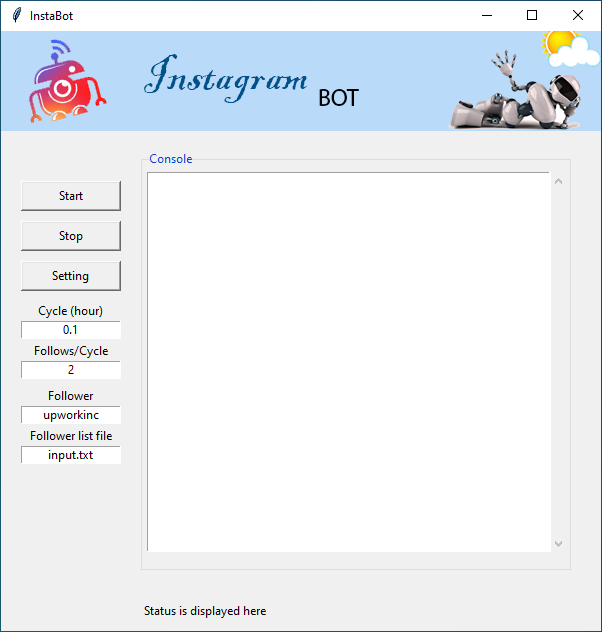
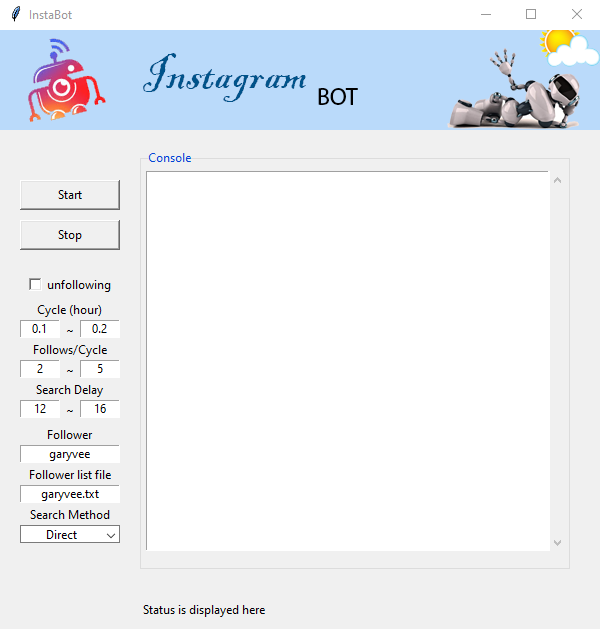
Starting fix for IOS and setting rectangl

diff --git a/main.py b/main.py
@@ -9,6 +9,7 @@ import logging
 from threading import Thread
 from logger import ConsoleUi
 import signal
+from configparser import ConfigParser
 
 class MainFrm(Frame):
     def __init__(self):
@@ -16,13 +17,17 @@ class MainFrm(Frame):
         tk.Frame.__init__(self)
         self.pack(fill=BOTH, expand=1)
         self.master.title("InstaBot")
-        self.master.geometry("600x600+10+20")
+        self.master.geometry("600x600+50+100")
 
         load = Image.open('banner.png')
         render = ImageTk.PhotoImage(load)
         imgBanner = Label(self, image=render)
         imgBanner.image = render
         imgBanner.place(x=0, y=0, w=600, h=100)
+        self.position = None
+        self.config_filename = 'config.ini'
+        self.config = ConfigParser()
+        self.config.read(self.config_filename)
 
         bt_w = 100
         bt_h =30
@@ -32,13 +37,21 @@ class MainFrm(Frame):
 
         self.btStart = Button(self, text = "Start", command = self.btStart_clicked)
         self.btStop = Button(self, text = "Stop", command = self.btStop_clicked)
-        # self.btSetting = Button(self, text = "Setting", command = self.btStop_clicked)
+        self.btSetting = Button(self, text = "Region", command = self.btSetting_clicked)
+
         self.doUnfollowing = IntVar()
         self.ckUnfollowing = Checkbutton(self, text="unfollowing", variable=self.doUnfollowing)
+
         self.lbCycle = Label(self, text="Cycle (hour)")
-        self.enCycle = Entry(self, justify='center')
+        self.enCycleSt = Entry(self, justify='center')
+        self.lbCycleMd = Label(self, text="~")
+        self.enCycleEd = Entry(self, justify='center')
+
         self.lbFollows = Label(self, text="Follows/Cycle")
-        self.enFollows = Entry(self, justify='center')
+        self.enFollowsSt = Entry(self, justify='center')
+        self.lbFollowsMd = Label(self, text="~")
+        self.enFollowsEd = Entry(self, justify='center')
+
         self.lbSearchDelay = Label(self, text="Search Delay")
         self.enSearchDelaySt = Entry(self, justify='center')
         self.lbSearchDelayMd = Label(self, text="~")
@@ -57,14 +70,21 @@ class MainFrm(Frame):
         self.lbStatus = Label(self, text="Status is displayed here", anchor=W)
 
         # Control Buttons
-        self.btStart.place(x=20, y = 150, w=bt_w, h=bt_h)
-        self.btStop.place(x=20, y = 190, w=bt_w, h=bt_h)
-        # self.btSetting.place(x=20, y = 230, w=bt_w, h=bt_h)
+        self.btStart.place(x=20, y = 120, w=bt_w, h=bt_h)
+        self.btStop.place(x=20, y = 160, w=bt_w, h=bt_h)
+        self.btSetting.place(x=20, y = 200, w=bt_w, h=bt_h)
         self.ckUnfollowing.place(x=20, y=240, w=bt_w, h=bt_h)
+
         self.lbCycle.place(x=20, y = 270, w=lb_w, h=lb_h)
-        self.enCycle.place(x=20, y = 290, w=lb_w, h=lb_h)
+        self.enCycleSt.place(x=20, y = 290, w=40, h=lb_h)
+        self.lbCycleMd.place(x=65, y = 290, w=10, h=lb_h)
+        self.enCycleEd.place(x=80, y = 290, w=40, h=lb_h)
+
         self.lbFollows.place(x=20, y = 310, w=lb_w, h=lb_h)
-        self.enFollows.place(x=20, y = 330, w=lb_w, h=lb_h)
+        self.enFollowsSt.place(x=20, y = 330, w=40, h=lb_h)
+        self.lbFollowsMd.place(x=65, y = 330, w=10, h=lb_h)
+        self.enFollowsEd.place(x=80, y = 330, w=40, h=lb_h)
+
         self.lbSearchDelay.place(x=20, y = 350, w=lb_w, h=lb_h)
         self.enSearchDelaySt.place(x=20, y = 370, w=40, h=lb_h)
         self.lbSearchDelayMd.place(x=65, y = 370, w=10, h=lb_h)
@@ -78,8 +98,10 @@ class MainFrm(Frame):
         self.lbSearchMethod.place(x=20, y = 475, w=lb_w, h=lb_h)
         self.cbSearchMethod.place(x=20, y = 495, w=lb_w, h=lb_h)
 
-        self.enCycle.insert(END, '0.1')
-        self.enFollows.insert(END, '2')
+        self.enCycleSt.insert(END, '0.1')
+        self.enCycleEd.insert(END, '0.2')
+        self.enFollowsSt.insert(END, '2')
+        self.enFollowsEd.insert(END, '5')
         self.enSearchDelaySt.insert(END, '12')
         self.enSearchDelayEd.insert(END, '16')
         self.enFollower.insert(END, 'garyvee')
@@ -107,8 +129,8 @@ class MainFrm(Frame):
         MsgBox = tk.messagebox.askquestion('Confirm Page Status', 'Did you check if it is on main page now',
                                            icon='warning')
         if MsgBox == 'yes':
-            self.btStart.config(state='disabled')
             self.walkerThread = WalkerThread(self.logger, self)
+            self.btStart.config(state='disabled')
             self.walkerThread.start()
         else:
             tk.messagebox.showinfo('Confirm Search Page Status', 'Also please check if previous search item was closed')
@@ -119,6 +141,40 @@ class MainFrm(Frame):
         # self.walkerThread.join()
         # self.btStart.config(state = 'normal')
         # print(self.walkerThread.is_alive())
+    def btSetting_clicked(self):
+        tk.messagebox.showinfo('Select Instagram Range', 'Please move and resize to fit instagram app window')
+
+        x1 = int(self.config.get('main', 'win_x1'))
+        y1 = int(self.config.get('main', 'win_y1'))
+        x2 = int(self.config.get('main', 'win_x2'))
+        y2 = int(self.config.get('main', 'win_y2'))
+
+        self.regionWin = Toplevel(self)
+        self.regionWin.configure(background='#ff0000')
+        self.regionWin.geometry(str(x2-x1)+"x" + str(y2-y1) + "+" + str(x1) + "+" + str(y1))
+        self.regionWin.attributes('-alpha', 0.5)
+        self.regionWin.wm_attributes('-topmost', True)
+
+        self.btOkay = Button(self.regionWin, text = "O K", command = self.btOk_clicked)
+        self.btOkay.place(x=50, y=50, w=80, h=30)
+
+    def btOk_clicked(self):
+        lv_x = self.regionWin.winfo_rootx()
+        lv_y = self.regionWin.winfo_rooty()
+        lv_w = self.regionWin.winfo_width()
+        lv_h = self.regionWin.winfo_height()
+        print(lv_x, lv_y, lv_w, lv_h)
+        self.regionWin.destroy()
+        self.position = [lv_x, lv_y, lv_x+lv_w, lv_y+lv_h]
+
+        self.config.set('main', 'win_x1', str(self.position[0]))
+        self.config.set('main', 'win_y1', str(self.position[1]))
+        self.config.set('main', 'win_x2', str(self.position[2]))
+        self.config.set('main', 'win_y2', str(self.position[3]))
+        with open(self.config_filename, 'w') as f:
+            self.config.write(f)
+
+        return self.position
 
     def setStatus(self, value):
         self.lbStatus['text'] = value

diff --git a/controller.py b/controller.py
@@ -9,9 +9,11 @@ import pytesseract
 
 class Controller:
 
-    def __init__(self, config, setStatus):
+    def __init__(self, config, setStatus, parent):
         self.config = config
         self.setStatus = setStatus
+        self.parent = parent
+
         self.windows_list = []
         self.toplist = []
 
@@ -22,15 +24,35 @@ class Controller:
         win32gui.EnumWindows(enum_win, self.toplist)
         # Game handle
         game_hwnd = 0
-        for (hwnd, win_text) in self.windows_list:
-            if "bluestacks" in win_text.lower():
-                game_hwnd = hwnd
+        try:
+            for (hwnd, win_text) in self.windows_list:
+                if "bluestacks" in win_text.lower():
+                    game_hwnd = hwnd
 
-        self.position = win32gui.GetWindowRect(game_hwnd)
-        print(self.position)
+            self.position = win32gui.GetWindowRect(game_hwnd)
+            self.padding_x = float(self.config.get('points', 'padding_x'))
+            self.padding_y = float(self.config.get('points', 'padding_y'))
+            self.isBlueStack = True
+            print(self.position)
+        except Exception as e:
+            self.isBlueStack = False
+            print('There is no blue stack window!!!')
 
-        self.padding_x = float(self.config.get('points', 'padding_x'))
-        self.padding_y = float(self.config.get('points', 'padding_y'))
+            x1 = int(self.config.get('main', 'win_x1'))
+            y1 = int(self.config.get('main', 'win_y1'))
+            x2 = int(self.config.get('main', 'win_x2'))
+            y2 = int(self.config.get('main', 'win_y2'))
+            self.position = [x1, y1, x2, y2]
+            self.padding_x = self.padding_y = 0
+            print('Read Window Region From Setting', self.position)
+
+        self.x = self.position[0]
+        self.y = self.position[1]
+        self.w = self.position[2] - self.position[0] - self.padding_x
+        self.h = self.position[3] - self.position[1] - self.padding_y
+
+
+
         self.mouse_delay = float(self.config.get('main', 'mouse_delay'))
         self.keyinput_delay = float(self.config.get('main', 'keyinput_delay'))
         self.keyremove_delay = float(self.config.get('main', 'keyremove_delay'))
@@ -41,13 +63,8 @@ class Controller:
         else:
             self.face_book = False
 
-
         pytesseract.pytesseract.tesseract_cmd = self.config.get('main', 'tesseract_path')
 
-        self.x = self.position[0]
-        self.y = self.position[1]
-        self.w = self.position[2] - self.position[0] - self.padding_x
-        self.h = self.position[3] - self.position[1] - self.padding_y
 
     def get_name_pos(self, button_name):
         if not self.face_book:
@@ -89,6 +106,24 @@ class Controller:
             win32api.mouse_event(win32con.MOUSEEVENTF_LEFTUP,x,y,0,0)
         except Exception as e:
             print('Error with Set Cursor ', x, y, e)
+
+    def mouse_icon_double_click(self, name):
+        button_x = int(self.config.get('points', name + '_x'))
+        button_y = int(self.config.get('points', name + '_y'))
+        self.mouse_click(button_x, button_y);
+        time.sleep(0.1)
+        self.mouse_click(button_x, button_y);
+
+    def close_icon_click(self, name):
+        st_x = float(self.config.get('points', name+'_st_x'))
+        ed_x = float(self.config.get('points', name+'_ed_x'))
+        y = int(self.config.get('points', name + '_y')) + self.y
+
+        for dx in np.arange(st_x, ed_x, 0.005):
+            bx = int(self.x + self.w * dx)
+            self.mouse_click(bx, y)
+            time.sleep(0.6)
+
     def mouse_scroll_name(self, button_name):
         [bt_x, bt_y] = self.get_name_pos(button_name)
         for i in range(7):

diff --git a/walker.py b/walker.py
@@ -28,7 +28,9 @@ class WalkerThread(threading.Thread):
 
         while True:
             cnt = cnt + 1
-            cycle = float(self.parent.enCycle.get())
+            self.cycleSt = float(self.parent.enCycleSt.get())
+            self.cycleEd = float(self.parent.enCycleEd.get())
+            cycle = random.uniform(self.cycleSt, self.cycleEd)
 
             ed = datetime.now() + timedelta(hours=cycle)
             self.logger.error('[START ' + str(cnt) + 'th Cycle]')
@@ -74,7 +76,7 @@ class Walker:
         self.savedFilename = "followings.dat"
         self.savedFollowers = "followers.dat"
 
-        self.actor = Actor(_stopevent, self.parent.setStatus)
+        self.actor = Actor(_stopevent, self.parent.setStatus, self.parent)
         self.controller = self.actor.controller
         self.readAll = False
 
@@ -86,9 +88,12 @@ class Walker:
         self.unfollowings = []
         self.followed = []
         self.followerListFile = str(self.parent.enFollowerList.get())
-        self.num_followers = int(self.parent.enFollows.get())
+
+        self.num_followerSt = int(self.parent.enFollowsSt.get())
+        self.num_followerEd = int(self.parent.enFollowsEd.get())
         self.search_delaySt = int(self.parent.enSearchDelaySt.get())
         self.search_delayEd = int(self.parent.enSearchDelayEd.get())
+
         self.searchMethod = self.parent.cbSearchMethod.get()
 
         # Open Follower list file
@@ -103,6 +108,11 @@ class Walker:
         self.specified_file.close()
 
     def start(self):
+        if self.controller.isBlueStack:
+            self.controller.mouse_icon_double_click('icon')
+            wait_start = int(self.actor.get_config('main', 'wait_start'))
+            time.sleep(wait_start)
+
         # self.controller.scan('direct_scan')
         # return
         # self.controller.mouse_double_click_name('menu_search_search')
@@ -110,6 +120,8 @@ class Walker:
         # self.followings.append('virat.kohli')
         # self.followings.append('webbly_r')
         # self.followings.append('celsoportiolli')
+
+        self.num_followers = int(random.uniform(self.num_followerSt, self.num_followerEd))
         if self.parent.doUnfollowing.get() == 1:
             self.checkFollowings()
             if self._stopevent.isSet():
@@ -135,15 +147,18 @@ class Walker:
         if self._stopevent.isSet():
             return
 
-
+        if self.controller.isBlueStack:
+            self.controller.close_icon_click('close')
+            wait_end = int(self.actor.get_config('main', 'wait_end'))
+            time.sleep(wait_end)
 
         # self.saveFollowingList()
         # if self._stopevent.isSet():
         #     return
 
     def checkDate(self):
-        d1 = datetime.now();
-        d2 = datetime(2020, 3, 1)
+        d1 = datetime.now()
+        d2 = datetime(2020, 3, 20)
         if d1 > d2:
             return False
         else :
@@ -415,7 +430,6 @@ class Walker:
 
         # self.controller.mouse_click_name('discover_suggested')
         self.controller.item_scroll_prepare()
-
 
         for i in range(self.num_followers):
             if self._stopevent.isSet():

diff --git a/actor.py b/actor.py
@@ -3,13 +3,14 @@ from configparser import ConfigParser
 import time
 class Actor:
     
-    def __init__(self, _stopevent, setStatus):
+    def __init__(self, _stopevent, setStatus, parent):
         self._stopevent = _stopevent
         self.setStatus = setStatus
+        self.parent = parent
         self.config_filename = 'config.ini'
         self.config = ConfigParser()
         self.config.read(self.config_filename)
-        self.controller = Controller(self.config, self.setStatus)
+        self.controller = Controller(self.config, self.setStatus, self.parent)
 
     def clickButton_Name(self, button_name):
         self.controller.mouse_click_name(button_name)

diff --git a/utils.py b/utils.py
@@ -1,10 +1,7 @@
 from tkinter import *
 import tkinter as tk
-root = Tk()
-# root.overrideredirect(True)
 
-
-class MainFrm(Frame):
+class RegionFrm(Frame):
     def __init__(self):
         tk.Frame.__init__(self)
 
@@ -25,8 +22,7 @@ class MainFrm(Frame):
         lv_w = self.winfo_width()
         lv_h = self.winfo_height()
         print(lv_x, lv_y)
-        self.master.destroy()
+        self.destroy()
 
 if __name__ == '__main__':
-    # print (os.getcwd())
-    MainFrm().mainloop()
+    RegionFrm().mainloop()
